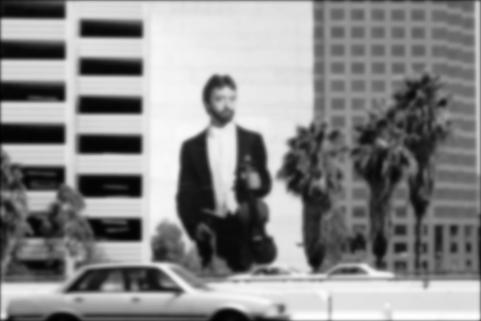
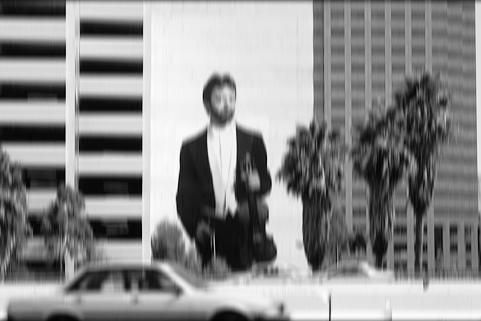
Added 1D Filters instead of 2D. But don't know how to do Gradient

diff --git a/Assignment_01/01_Main.py b/Assignment_01/01_Main.py
@@ -36,13 +36,17 @@ from PIL import Image
 
 from Convolution import convolution
 
+standard_dev_1 = 2
+standard_dev_2 = 4
+standard_dev_3 = 6
+
 
 
 # ==========================================================#
 # 2. Create 1-dimensional Gaussian Filter Mask and Apply it #
 # ==========================================================#
 
-from Gaussian import gaussian_filter
+from Gaussian import X_gaussian_filter_1D,Y_gaussian_filter_1D
 
 input_folder = 'Assignment_01/Input_Images'
 images = Path(input_folder).glob('*.jpg')
@@ -57,7 +61,7 @@ for image in images:
     im_blurred = np.zeros_like(im, dtype=np.float32)
     im_filtered_y = np.zeros_like(im, dtype=np.float32)
     im_filtered_x = np.zeros_like(im, dtype=np.float32)
-    im_blurred = convolution(im, gaussian_filter(2))
+    im_blurred = convolution(im, Y_gaussian_filter_1D(standard_deviation=standard_dev_2))
 
     # Save the images into the folder:
     plt.imsave(f"Assignment_01/Output_Images/01_Gaussian_Blur/{index}_blurred.jpg",
@@ -71,8 +75,8 @@ for image in images:
 # 3. Create 1-dimensional Filter Mask in X and Y direction and apply them #
 # ========================================================================#
 
-from Gradient import gaussian_filter_partial_derivative_x
-from Gradient import gaussian_filter_partial_derivative_y
+from Gradient import gaussian_gradient_x_1D
+from Gradient import gaussian_gradient_y_1D
 
 input_folder = 'Assignment_01/Input_Images'
 images = Path(input_folder).glob('*.jpg')
@@ -86,8 +90,8 @@ for image in images:
     im = np.asarray(im)
     im_filtered_y = np.zeros_like(im, dtype=np.float32)
     im_filtered_x = np.zeros_like(im, dtype=np.float32)
-    im_filtered_y = convolution(im, gaussian_filter_partial_derivative_y(2))
-    im_filtered_x = convolution(im, gaussian_filter_partial_derivative_x(2))
+    im_filtered_y = convolution(im, gaussian_gradient_y_1D(standard_deviation=standard_dev_2))
+    im_filtered_x = convolution(im, gaussian_gradient_x_1D(standard_deviation=standard_dev_2))
 
     # Save the images into the folder:
     plt.imsave(f"Assignment_01/Output_Images/03_Gradient_Edge_Detection_Y/{index}_edged_y.jpg",
@@ -116,7 +120,7 @@ index = 0
 print("Applying Magnitude and Orientation Filters")
 for im in images:
      index += 1
-     magnitude,orientation = imageMagnitudeandOrientation(im,4)
+     magnitude,orientation = imageMagnitudeandOrientation(im,standard_deviation=standard_dev_2)
      plt.imsave(f"Assignment_01/Output_Images/04_Magnitude/{index}_magnitude.png",
                 magnitude.astype(np.uint8),
                 cmap=plt.cm.Greys_r
@@ -157,14 +161,15 @@ The result of applying this algorithm is that the edges will be thinner. This is
 from Non_Max_Suppression import non_max_suppression
 
 # Apply to the Images
-input_folder = 'Assignment_01/Images'
+input_folder = 'Assignment_01/Input_Images'
 images = Path(input_folder).glob('*.jpg')
 index = 0
 
-print("Applying Non-Maximum Suppression Filters")
+
 for im in images:
      index += 1
-     im_non_max_suppression = non_max_suppression(im,4)
+     print("Applying Non-Maximum Suppression Filters")
+     im_non_max_suppression = non_max_suppression(im,standard_deviation=standard_dev_2)
      plt.imsave(f"Assignment_01/Output_Images/08_Non_Max_Suppression/{index}_NMS.png",
                 im_non_max_suppression.astype(np.uint8),
                 cmap=plt.cm.Greys_r
@@ -199,7 +204,7 @@ print("Applying the last step of Canny Filter Detection: Hysteresis Thresholding
 for im in images:
      index += 1
      im_hysteresis = hysteresis(image=im,
-                                standard_deviation=4,
+                                standard_deviation=standard_dev_2,
                                 low_threshold=0.05,
                                 high_threshold=0.15,
                                 weak_pixel=25,

diff --git a/Assignment_01/Gradient.py b/Assignment_01/Gradient.py
@@ -4,7 +4,7 @@
 import numpy as np
 
 
-def gaussian_filter_partial_derivative_x(standard_deviation):
+def gaussian_gradient_x_2D(standard_deviation):
 
 
     # Create empty matrix in order to iterate through and use a Gaussian Function
@@ -27,7 +27,7 @@ def gaussian_filter_partial_derivative_x(standard_deviation):
     return gaussian_derivative_mask_x
             
 
-def gaussian_filter_partial_derivative_y(standard_deviation):
+def gaussian_gradient_y_2D(standard_deviation):
 
 
     # Create empty matrix in order to iterate through and use a Gaussian Function
@@ -49,3 +49,33 @@ def gaussian_filter_partial_derivative_y(standard_deviation):
 
     return gaussian_derivative_mask_y
             
+    
+
+def gaussian_gradient_x_1D(standard_deviation):
+    size=10
+    # Create an array of integers from -(size//2) to size//2
+    x = np.arange(-(size // 2), (size // 2) + 1)
+    # Compute the Gaussian function for each value in the array
+    y=0
+    a = 1/(2*np.pi*(standard_deviation**2))
+    b = np.exp(-(x**2+y**2)/(2*standard_deviation**2))
+    c = -x/(standard_deviation**2)
+    gradient_mask = a*b*c
+    # Normalize the filter to ensure its sum equals 1
+    gradient_mask /= np.sum(gradient_mask)
+    return gradient_mask
+
+def gaussian_gradient_y_1D(standard_deviation):
+    size=10
+    # Create an array of integers from -(size//2) to size//2
+    x=0
+    y = np.arange(-(size // 2), (size // 2) + 1)
+    y = np.vstack(y)
+    # Compute the Gaussian function for each value in the array
+    a = 1/(2*np.pi*(standard_deviation**2))
+    b = np.exp(-(x**2+y**2)/(2*standard_deviation**2))
+    c = -y/(standard_deviation**2)
+    gradient_mask = a*b*c
+    # Normalize the filter to ensure its sum equals 1
+    gradient_mask /= np.sum(gradient_mask)
+    return gradient_mask

diff --git a/Assignment_01/Gaussian.py b/Assignment_01/Gaussian.py
@@ -2,8 +2,11 @@
 # 2. Create 1-dimensional Gaussian Filter Mask and Apply it #
 # ==========================================================#
 import numpy as np
+from PIL import Image
+import matplotlib.pyplot as plt
+from pathlib import Path
 
-def gaussian_filter(standard_deviation):
+def gaussian_filter_2D(standard_deviation):
     
    
     # Create empty matrix in order to iterate through and use a Gaussian Function
@@ -24,5 +27,33 @@ def gaussian_filter(standard_deviation):
             gaussian_mask[x+m, y+n] = a * b
     
     return gaussian_mask
+
+
+def X_gaussian_filter_1D(standard_deviation):
+    size=10
+    # Create an array of integers from -(size//2) to size//2
+    x = np.arange(-(size // 2), (size // 2) + 1)
+    # Compute the Gaussian function for each value in the array
+    a= (1 / (np.sqrt(2 * np.pi * standard_deviation**2)))
+    b= np.exp(-(x**2) / (2 * standard_deviation**2))
+    gaussian_mask = a*b
+    # Normalize the filter to ensure its sum equals 1
+    gaussian_mask /= np.sum(gaussian_mask)
+    return gaussian_mask
+
+
+def Y_gaussian_filter_1D(standard_deviation):
+    size=10
+    # Create an array of integers from -(size//2) to size//2
+    y = np.arange(-(size // 2), (size // 2) + 1)
+    y = np.vstack(y)
+    # Compute the Gaussian function for each value in the array
+    a= (1 / (np.sqrt(2 * np.pi * standard_deviation**2)))
+    b= np.exp(-(y**2) / (2 * standard_deviation**2))
+    gaussian_mask = a*b
+    # Normalize the filter to ensure its sum equals 1
+    gaussian_mask /= np.sum(gaussian_mask)
+    return gaussian_mask
+
 
 

diff --git a/Assignment_01/Magnitude_Orientation.py b/Assignment_01/Magnitude_Orientation.py
@@ -3,7 +3,7 @@
 # =======================================================================================#
 from PIL import Image
 import numpy as np
-from Gradient import gaussian_filter_partial_derivative_x,gaussian_filter_partial_derivative_y
+from Gradient import gaussian_gradient_x_1D,gaussian_gradient_y_1D
 from Convolution import convolution
 
 def imageMagnitudeandOrientation(image,standard_deviation):
@@ -14,8 +14,8 @@ def imageMagnitudeandOrientation(image,standard_deviation):
       im_filtered_x = np.zeros_like(image, dtype=np.float32)
       im_filtered_y = np.zeros_like(image, dtype=np.float32)
 
-      x_filter = gaussian_filter_partial_derivative_x(standard_deviation)
-      y_filter = gaussian_filter_partial_derivative_y(standard_deviation)
+      x_filter = gaussian_gradient_x_1D(standard_deviation)
+      y_filter = gaussian_gradient_y_1D(standard_deviation)
 
     
       im_filtered_y = convolution(image, y_filter)

diff --git a/Assignment_01/Hysteresis_Thresholding.py b/Assignment_01/Hysteresis_Thresholding.py
@@ -19,12 +19,12 @@ Uses a high and low threshold value to suppress the detection of false edges.
 from Non_Max_Suppression import non_max_suppression
 import numpy as np
 
-def threshold(image, standard_deviation,low_threshold,high_threshold,weak_pixel,strong_pixel):
+def threshold(image,standard_deviation,low_threshold,high_threshold,weak_pixel,strong_pixel):
 
     non_max_suppression_image = non_max_suppression(image,standard_deviation)
 
-    high_threshold = non_max_suppression_image.max() * high_threshold;
-    low_threshold = high_threshold * low_threshold;
+    high_threshold = non_max_suppression_image.max() * high_threshold
+    low_threshold = high_threshold * low_threshold
 
     m, n = non_max_suppression_image.shape
     img_threshold = np.zeros((m,n), dtype=np.int32)

diff --git a/Assignment_01/Convolution.py b/Assignment_01/Convolution.py
@@ -8,13 +8,17 @@ This is a key function for combining images with a filter. This function will be
 
 import numpy as np
 
-def convolution(oldimage, kernel):
-    image_h = oldimage.shape[0]
-    image_w = oldimage.shape[1]
+def convolution(oldimage, kernel):    
     
-    
-    kernel_h = kernel.shape[0]
-    kernel_w = kernel.shape[1]
+    try:
+        kernel_h = kernel.shape[0]
+    except:
+        kernel_h = 1
+
+    try:
+        kernel_w = kernel.shape[1]
+    except:
+        kernel_w = 1
     
     if(len(oldimage.shape) == 3):
         image_pad = np.pad(oldimage, pad_width=((kernel_h // 2, kernel_h // 2),(kernel_w // 2, kernel_w // 2),(0,0)), mode='constant', constant_values=0).astype(np.float32)

diff --git a/test.py b/test.py
@@ -1,0 +1,17 @@
+import numpy as np
+import matplotlib.pyplot as plt
+
+def gaussian_function(x, sigma):
+    return (1 / (np.sqrt(2 * np.pi * sigma**2))) * np.exp(-(x**2) / (2 * sigma**2))
+
+def create_gaussian_filter(size, sigma):
+    # Create an array of integers from -(size//2) to size//2
+    x = np.arange(-(size // 2), (size // 2) + 1)
+    # Compute the Gaussian function for each value in the array
+    g_filter = gaussian_function(x, sigma)
+    # Normalize the filter to ensure its sum equals 1
+    g_filter /= np.sum(g_filter)
+    return g_filter
+
+
+

diff --git a/Assignment_01/Non_Max_Suppression.py b/Assignment_01/Non_Max_Suppression.py
@@ -29,7 +29,6 @@ def non_max_suppression(image,standard_deviation):
 
         for i in range(1,m-1):
             for j in range(1,n-1):
-                try:
                     q = 255
                     r = 255
 
@@ -55,9 +54,6 @@ def non_max_suppression(image,standard_deviation):
                     else:
                         im_nms[i,j] = 0
 
-
-                except IndexError as e:
-                    pass
 
         return im_nms
 
